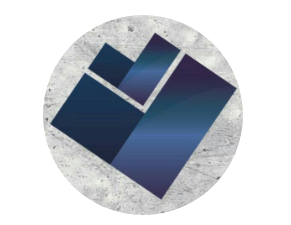
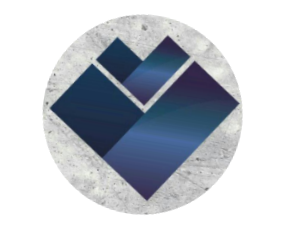
Arreglo footer
-Modificacion del footer para redireccionar a revelat.com.ar.
-Cambiado el logo de revelat.
-Agregado de css para cambiar el puntero.
-Modificado el boton "consultar" a "mas informacion".

diff --git a/index.html b/index.html
@@ -131,7 +131,7 @@
             <div class="col-xs-12 col-md-6 col-lg-5 mbr-inner-padding text-xs-center">
                 <h3 class="mbr-section-title display-4">Consultar mi causa&nbsp;</h3>
                 <div class="lead"><p>Tenga en cuenta &nbsp;como debe ingresar los datos en la pagina del poder judicial, para eso puede verlo en el video de la izquierda, o más abajo en "Que camino seguir" <br> Al apretar consultar pagina se abrira la pagina del poder judicial.</p></div>
-                <div><a class="btn btn-lg btn-black-outline btn-black" href="index.html#caminoSeguir"  target="_blank">Consultar</a></div>
+                <div><a class="btn btn-lg btn-black-outline btn-black" href="index.html#caminoSeguir"  target="_blank">Más información</a></div>
             </div>
         </div>
     </div>
@@ -241,7 +241,7 @@
 <!--PIE DE PAGINA-->
 <footer class="mbr-section mbr-section-nopadding mbr-footer" id="footer1-6" style="background-color: rgb(38, 39, 44); padding-top: 3rem; padding-bottom: 1.98rem;">
     <div class="container" id="revelat">
-        <p>Copyright (c) 2017 Re<a style="color: #81D2F1">v</a>elat. <img src="assets/images/revelatIcon.png"><em><a>Terminos y condiciones</a></em>  | <a>Privacy Policy</a></p>
+        <p class="manito" onclick="window.open('http://www.revelat.com.ar');">Copyright (c) 2017 Re<a style="color: #81D2F1" >v</a>elat.<img src="assets/images/revelatIcon.png"><em><a>Terminos y condiciones</a></em>  | <a>Privacy Policy</a></p>
         <div style="float:right; margin-top: -5%"><a class="btn btn-lg btn-black-outline btn-black" href="index.html#slider-1" target="_blank">Ir Arriba</a></div>
     </div>
 

diff --git a/assets/revelatcss/css/mbr-additional.css b/assets/revelatcss/css/mbr-additional.css
@@ -100,3 +100,6 @@
   margin-bottom: 0.5rem;
   margin-left: 1rem;
 }
+.manito{
+  cursor:pointer;
+}
